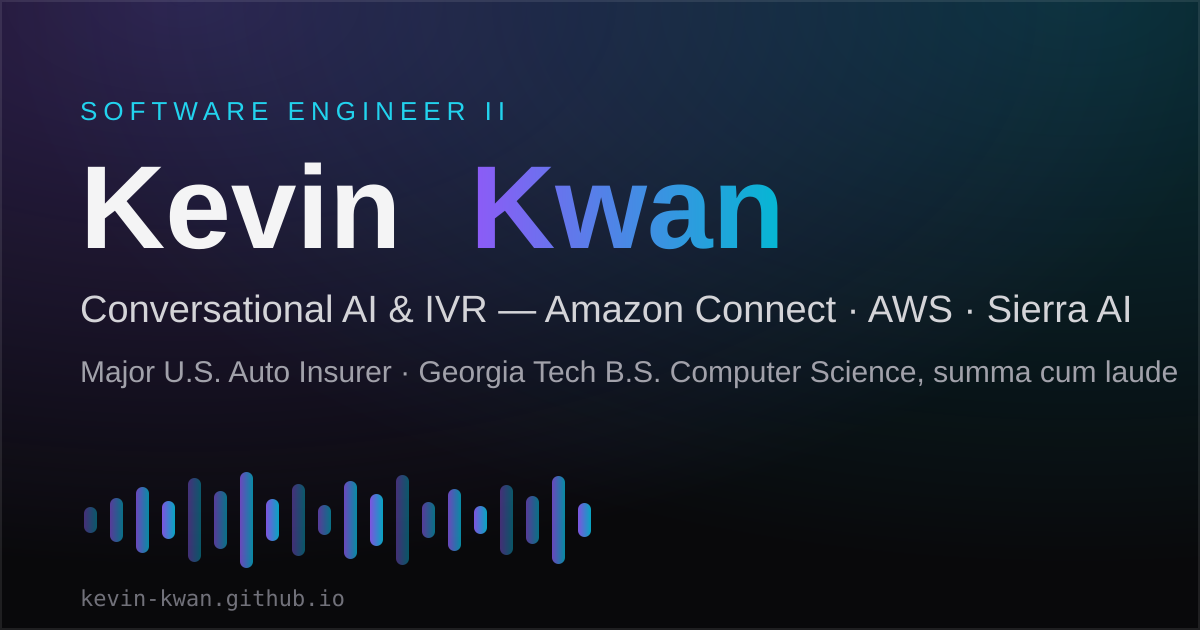
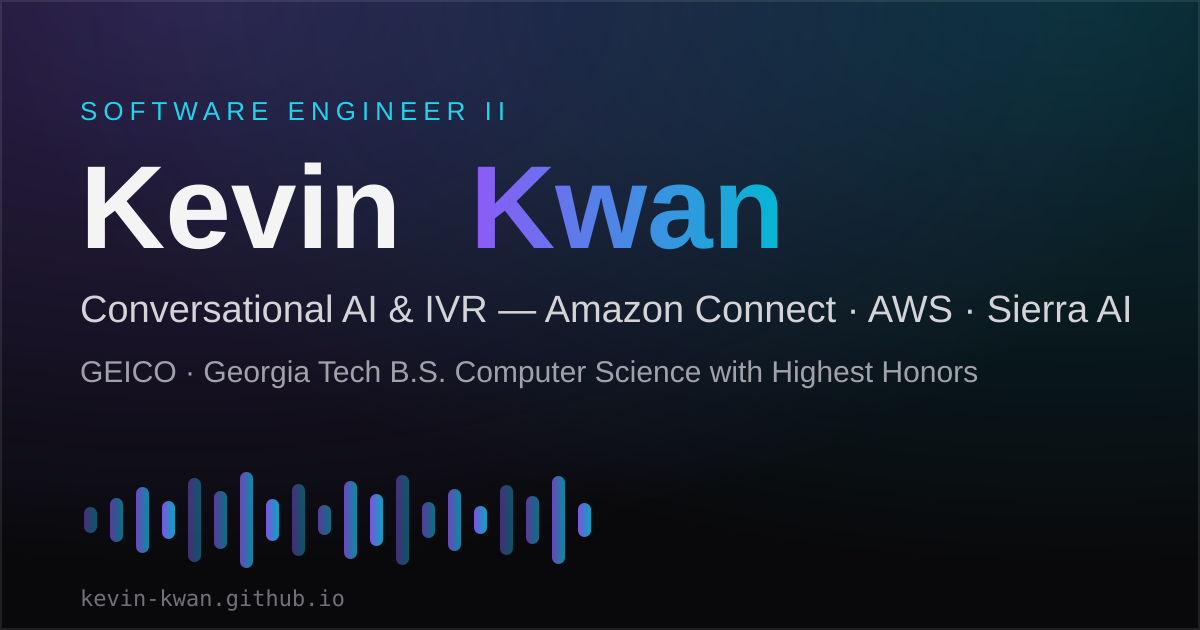
Iteration 18 (#11)
* Iteration 18: update PipelineDiagram and ExperienceCard components

* Iteration 18: update content data (experience, projects, site, skills, profile)

* Iteration 18: update pages (index, resume, education)

* Iteration 18: update OG image generation script

* Iteration 18: regenerate OG social image

* Iteration 18: update tests (add Skills, Resume, MetaDescriptions)

Changed region(s): [[0.0617, 0.573, 0.9867, 0.6333]]

diff --git a/tests/Projects.test.tsx b/tests/Projects.test.tsx
@@ -143,6 +143,46 @@ describe('Projects filter', () => {
   });
 });
 
+describe('Projects links', () => {
+  it('points the Eyetracking Colab demo at the repo that exists', () => {
+    const eyetracking = allProjects.find((p) => p.id === 'eyetracking-hci');
+    expect(eyetracking).toBeDefined();
+    // The GitHub link uses fixed_pytorch_mpiigaze_demo; the Colab link
+    // used the bare pytorch_mpiigaze_demo slug, which is not a repo
+    // under Kevin-Kwan — Colab 404s on it. Both must name the repo
+    // that exists, and demo.ipynb is on its master branch.
+    expect(eyetracking!.githubUrl).toBe(
+      'https://github.com/Kevin-Kwan/fixed_pytorch_mpiigaze_demo/'
+    );
+    expect(eyetracking!.demo?.url).toBe(
+      'https://colab.research.google.com/github/Kevin-Kwan/fixed_pytorch_mpiigaze_demo/blob/master/demo.ipynb'
+    );
+  });
+
+  it('uses the lowercase repo name in every github.io URL', () => {
+    // GitHub redirects, but the footer source link and the Portfolio
+    // project card both used capital-K "Kevin-Kwan.github.io" as the
+    // repo name while the site URL is lowercase everywhere else.
+    for (const project of allProjects) {
+      if (project.githubUrl) {
+        expect(project.githubUrl).not.toContain('Kevin-Kwan.github.io');
+      }
+    }
+    const portfolio = allProjects.find((p) => p.id === 'portfolio-website');
+    expect(portfolio?.githubUrl).toBe(
+      'https://github.com/Kevin-Kwan/kevin-kwan.github.io'
+    );
+  });
+
+  it('names the Firestore database "Cloud Firestore" in tech tags, never bare "Firestore"', () => {
+    for (const project of allProjects) {
+      expect(project.tech).not.toContain('Firestore');
+    }
+    const careers = allProjects.find((p) => p.id === 'careers-portal');
+    expect(careers?.tech).toContain('Cloud Firestore');
+  });
+});
+
 describe('Projects tiers', () => {
   it('assigns every project to exactly one tier — 16 production, 8 archival', () => {
     expect(allProjects.length).toBe(24);

diff --git a/content/projects.ts b/content/projects.ts
@@ -84,7 +84,7 @@ export const projectGroups: ProjectGroup[] = [
         description:
           'This website — designed and built with TypeScript using Next.js (React) and Tailwind CSS, with all content managed as typed data.',
         tech: ['TypeScript', 'Next.js', 'React', 'Tailwind CSS'],
-        githubUrl: 'https://github.com/Kevin-Kwan/Kevin-Kwan.github.io',
+        githubUrl: 'https://github.com/Kevin-Kwan/kevin-kwan.github.io',
         image: {
           src: '/projects/portfolio-website.webp',
           alt: 'Voice-waveform artwork for this portfolio website',
@@ -156,7 +156,7 @@ export const projectGroups: ProjectGroup[] = [
         note: 'Private client work — no public repo/demo.',
         description:
           'A full-stack dynamic careers portal website made with Next.js (React), Tailwind CSS, Cloud Firestore, and Firebase Storage for a business allowing for potential candidates to view open positions, learn about company benefits, and apply to jobs through an online form. This project was made for a client, thus, it will remain closed-source.',
-        tech: ['Next.js', 'React', 'Tailwind CSS', 'Firestore', 'Firebase'],
+        tech: ['Next.js', 'React', 'Tailwind CSS', 'Cloud Firestore', 'Firebase'],
       },
       {
         id: 'qc-testing',
@@ -224,7 +224,7 @@ export const projectGroups: ProjectGroup[] = [
         tech: ['Python', 'PyTorch', 'NumPy', 'OpenCV', 'ResNet50'],
         githubUrl: 'https://github.com/Kevin-Kwan/fixed_pytorch_mpiigaze_demo/',
         demo: {
-          url: 'https://colab.research.google.com/github/Kevin-Kwan/pytorch_mpiigaze_demo/blob/master/demo.ipynb',
+          url: 'https://colab.research.google.com/github/Kevin-Kwan/fixed_pytorch_mpiigaze_demo/blob/master/demo.ipynb',
           label: 'Colab Demo',
         },
       },

diff --git a/components/PipelineDiagram.tsx b/components/PipelineDiagram.tsx
@@ -31,16 +31,26 @@ function subscribeToBelowLg(onStoreChange: () => void) {
   return () => query.removeEventListener('change', onStoreChange);
 }
 
-function getBelowLgSnapshot() {
+function getBelowLgSnapshot(): boolean {
   return window.matchMedia(BELOW_LG_MEDIA_QUERY).matches;
 }
 
-function getServerBelowLgSnapshot() {
-  return false;
+/**
+ * No orientation claim during server rendering: the static export is one
+ * HTML file served at every viewport, so a hardcoded 'horizontal' would
+ * lie about the vertical stepper phones actually render. The attribute is
+ * set by the media-query hook once the page hydrates instead.
+ */
+function getServerBelowLgSnapshot(): boolean | undefined {
+  return undefined;
 }
 
-/** True when the tab list is using its below-lg vertical layout. */
-function useVerticalTabList(): boolean {
+/**
+ * True when the tab list is using its below-lg vertical layout;
+ * undefined until hydration, while the static HTML must not claim an
+ * orientation it cannot know.
+ */
+function useVerticalTabList(): boolean | undefined {
   return useSyncExternalStore(
     subscribeToBelowLg,
     getBelowLgSnapshot,
@@ -184,7 +194,13 @@ function PipelineDiagram() {
       <div
         role="tablist"
         aria-label="Voice pipeline stages"
-        aria-orientation={vertical ? 'vertical' : 'horizontal'}
+        aria-orientation={
+          vertical === undefined
+            ? undefined
+            : vertical
+              ? 'vertical'
+              : 'horizontal'
+        }
         onKeyDown={onTabKeyDown}
         className="mt-6 flex flex-col items-center lg:flex-row lg:items-stretch"
       >

diff --git a/tests/Skills.test.tsx b/tests/Skills.test.tsx
@@ -1,0 +1,33 @@
+import { describe, expect, it } from 'vitest';
+import { render, screen } from '@testing-library/react';
+import Skills from '../pages/skills';
+import { coreSkills, skillTiers } from '../content/skills';
+
+const allSkillNames = skillTiers.flatMap((tier) =>
+  tier.skills.map((skill) => skill.name)
+);
+
+describe('Skills naming', () => {
+  it('calls the Lambda service "AWS Lambda" everywhere, matching the home marquee and /resume', () => {
+    expect(allSkillNames).toContain('AWS Lambda');
+    expect(allSkillNames).not.toContain('Lambda');
+    expect(coreSkills).toContain('AWS Lambda');
+    render(<Skills />);
+    expect(screen.getByText('AWS Lambda')).not.toBeNull();
+  });
+
+  it('calls the database "Cloud Firestore" everywhere, never bare "Firestore"', () => {
+    expect(allSkillNames).toContain('Cloud Firestore');
+    expect(allSkillNames).not.toContain('Firestore');
+    render(<Skills />);
+    expect(screen.getByText('Cloud Firestore')).not.toBeNull();
+  });
+
+  it('has no "Go" skill tile — the round-8 "icon-less Go tile" was a misread of another tile', () => {
+    // No Go entry exists in the inventory, so there is no tile to fix;
+    // every listed icon key resolves to a real icon in SkillIcon.
+    expect(allSkillNames).not.toContain('Go');
+    render(<Skills />);
+    expect(screen.queryByText('Go')).toBeNull();
+  });
+});

diff --git a/tests/ExperienceCard.test.tsx b/tests/ExperienceCard.test.tsx
@@ -48,6 +48,30 @@ describe('ExperienceCard', () => {
     }
   });
 
+  it('capitalizes every metric-strip sub-label', () => {
+    // The first two pills were lowercase ("billing agent…",
+    // "payment journeys…") while the other two were capitalized.
+    for (const metric of insurer!.metricStrip ?? []) {
+      expect(metric.label[0]).toBe(metric.label[0].toUpperCase());
+    }
+    render(<ExperienceCard entry={insurer!} />);
+    expect(
+      screen.getByText('Billing agent in production, English & Spanish')
+    ).not.toBeNull();
+    expect(
+      screen.getByText('Payment journeys, incl. Pause AutoPay')
+    ).not.toBeNull();
+  });
+
+  it('shows the summary by default and hides it when showSummary is false', () => {
+    const { rerender } = render(<ExperienceCard entry={insurer!} />);
+    expect(screen.getByText(insurer!.summary)).not.toBeNull();
+    // The home card hides it — the hero already states the role,
+    // employer, and ownership, so it only repeats them.
+    rerender(<ExperienceCard entry={insurer!} showSummary={false} />);
+    expect(screen.queryByText(insurer!.summary)).toBeNull();
+  });
+
   it('omits the company tagline when an entry does not provide one', () => {
     expect(untaggedEntry.companyTagline).toBeUndefined();
     render(<ExperienceCard entry={untaggedEntry} />);

diff --git a/components/ExperienceCard.tsx b/components/ExperienceCard.tsx
@@ -12,6 +12,12 @@ interface ExperienceCardProps {
   entry: ExperienceEntry;
   /** Overrides entry.highlights (home page passes the condensed set). */
   highlights?: string[];
+  /**
+   * Render the summary paragraph. The home card hides it: the hero
+   * already states the role, employer, and ownership, so the summary
+   * only repeats it before the bullets and pipeline.
+   */
+  showSummary?: boolean;
   /** Pointer-spotlight treatment — reserved for the featured home block. */
   spotlight?: boolean;
   /** Traveling border-beam treatment — reserved for the featured home block. */
@@ -51,6 +57,7 @@ function HighlightList({
 function ExperienceCard({
   entry,
   highlights,
+  showSummary = true,
   spotlight = false,
   beam = false,
   cta,
@@ -86,7 +93,9 @@ function ExperienceCard({
       <h3 className="mt-5 text-base font-semibold text-violet-300">
         {entry.title}
       </h3>
-      <p className="mt-2 leading-relaxed text-zinc-300">{entry.summary}</p>
+      {showSummary && (
+        <p className="mt-2 leading-relaxed text-zinc-300">{entry.summary}</p>
+      )}
 
       {useSections && entry.roles && (
         <ul className="mt-4 space-y-1.5">

diff --git a/tests/Resume.test.tsx b/tests/Resume.test.tsx
@@ -1,0 +1,30 @@
+import { describe, expect, it } from 'vitest';
+import { render } from '@testing-library/react';
+import Resume from '../pages/resume';
+import { resumeRequestUrl } from '../content/site';
+
+describe('Resume request gate', () => {
+  it('gives the inline email link the same subject as the gate button', () => {
+    const { container } = render(<Resume />);
+    const mailtos = Array.from(
+      container.querySelectorAll('a[href^="mailto:"]')
+    );
+    expect(mailtos.length).toBe(2);
+    for (const link of mailtos) {
+      expect(link.getAttribute('href')).toBe(resumeRequestUrl);
+    }
+    expect(resumeRequestUrl).toBe(
+      'mailto:kevinkwan@gatech.edu?subject=Resume%20request'
+    );
+  });
+
+  it('keeps "with Highest Honors" in the At-a-glance education bullet', () => {
+    // Recorded decision (Iteration 18): the Iteration 17 honours rule
+    // governed only the global footer. The /resume bullet states the
+    // actual credential verbatim and stays as-is.
+    const { container } = render(<Resume />);
+    expect(container.textContent).toContain(
+      'Bachelor of Science in Computer Science with Highest Honors'
+    );
+  });
+});

diff --git a/tests/Home.test.tsx b/tests/Home.test.tsx
@@ -12,6 +12,28 @@ describe('Home hero', () => {
     expect(container.querySelector('a[href^="mailto:"]')).toBeNull();
   });
 
+  it('does not repeat the role as a lead-in in the hero second paragraph', () => {
+    const { container } = render(<Home />);
+    // The eyebrow already states "Software Engineer II · … · GEICO".
+    expect(container.textContent).not.toContain(
+      'Software Engineer II owning'
+    );
+    expect(container.textContent).toContain(
+      'Owning critical payment journeys'
+    );
+  });
+
+  it('hides the GEICO summary on the home card — the hero already says it', () => {
+    render(<Home />);
+    expect(
+      screen.queryByText(/customer-service automation platforms/)
+    ).toBeNull();
+    // The condensed bullets still render.
+    expect(
+      screen.getByText(/Co-develop and operate the billing voice agent/)
+    ).not.toBeNull();
+  });
+
   it('has no GitHub/LinkedIn icon links in the hero row', () => {
     const { container } = render(<Home />);
     // Scope to the hero section: featured ProjectCards below legitimately

diff --git a/pages/resume.tsx b/pages/resume.tsx
@@ -20,7 +20,7 @@ function Resume() {
     <>
       <Seo
         title="Résumé | Kevin Kwan"
-        description="Résumé of Kevin Kwan — Software Engineer II (conversational AI & IVR) at GEICO, Georgia Tech B.S. Computer Science, summa cum laude. Available on request."
+        description="Résumé of Kevin Kwan — Software Engineer II (conversational AI & IVR) at GEICO, Georgia Tech B.S. Computer Science with Highest Honors. Available on request."
         path="/resume"
       />
       <div className="mx-auto max-w-6xl px-4 py-16 sm:px-6 sm:py-20">
@@ -128,7 +128,7 @@ function Resume() {
             <p className="text-center text-sm text-zinc-400">
               Email{' '}
               <a
-                href={`mailto:${site.contactEmail}`}
+                href={resumeRequestUrl}
                 className="text-cyan-300 underline decoration-cyan-800 underline-offset-4 transition-colors hover:text-cyan-200"
               >
                 {site.contactEmail}

diff --git a/content/site.ts b/content/site.ts
@@ -13,11 +13,11 @@ export const site = {
   siteUrl: 'https://kevin-kwan.github.io',
   defaultTitle: 'Kevin Kwan | Software Engineer II — Conversational AI & IVR',
   defaultDescription:
-    'Portfolio of Kevin Kwan, a Software Engineer II building conversational AI and IVR systems on Amazon Connect and AWS for GEICO. Georgia Tech B.S. Computer Science, summa cum laude.',
+    'Portfolio of Kevin Kwan, a Software Engineer II building conversational AI and IVR systems on Amazon Connect and AWS for GEICO. Georgia Tech B.S. Computer Science with Highest Honors.',
   ogImage: '/og.png',
   /** Public contact address shown on /contact — data, not a build secret. */
   contactEmail: 'kevinkwan@gatech.edu',
-  sourceRepoUrl: 'https://github.com/Kevin-Kwan/Kevin-Kwan.github.io',
+  sourceRepoUrl: 'https://github.com/Kevin-Kwan/kevin-kwan.github.io',
 } as const;
 
 /**

diff --git a/pages/index.tsx b/pages/index.tsx
@@ -213,7 +213,7 @@ function Home() {
     <>
       <Seo
         title="Kevin Kwan | Software Engineer II — Conversational AI & IVR"
-        description="Kevin Kwan is a Software Engineer II building conversational AI and IVR systems on Amazon Connect and AWS for GEICO. Georgia Tech B.S. Computer Science, summa cum laude."
+        description="Kevin Kwan is a Software Engineer II building conversational AI and IVR systems on Amazon Connect and AWS for GEICO. Georgia Tech B.S. Computer Science with Highest Honors."
         path="/"
       />
       <Head>
@@ -326,6 +326,7 @@ function Home() {
           <ExperienceCard
             entry={insurerRole}
             highlights={insurerRole.shortHighlights}
+            showSummary={false}
             spotlight
             beam
             cta={{ href: '/experience', label: 'Full experience' }}

diff --git a/tests/MetaDescriptions.test.tsx b/tests/MetaDescriptions.test.tsx
@@ -1,0 +1,16 @@
+import { describe, expect, it } from 'vitest';
+import { site } from '../content/site';
+
+describe('Meta descriptions', () => {
+  it('uses "with Highest Honors" as the honours claim everywhere', () => {
+    // Site-wide default description (used as the fallback everywhere).
+    expect(site.defaultDescription).toContain('with Highest Honors');
+    expect(site.defaultDescription).not.toContain('summa cum laude');
+    // The per-page descriptions in pages/index.tsx, pages/resume.tsx,
+    // and pages/education.tsx carry the same wording; they are inline
+    // props, not exported data, so they are covered by the compliance
+    // grep over source (which must stay at 0 hits for "summa cum
+    // laude") rather than by a render assertion — next/head does not
+    // write to document.head in this jsdom setup.
+  });
+});
